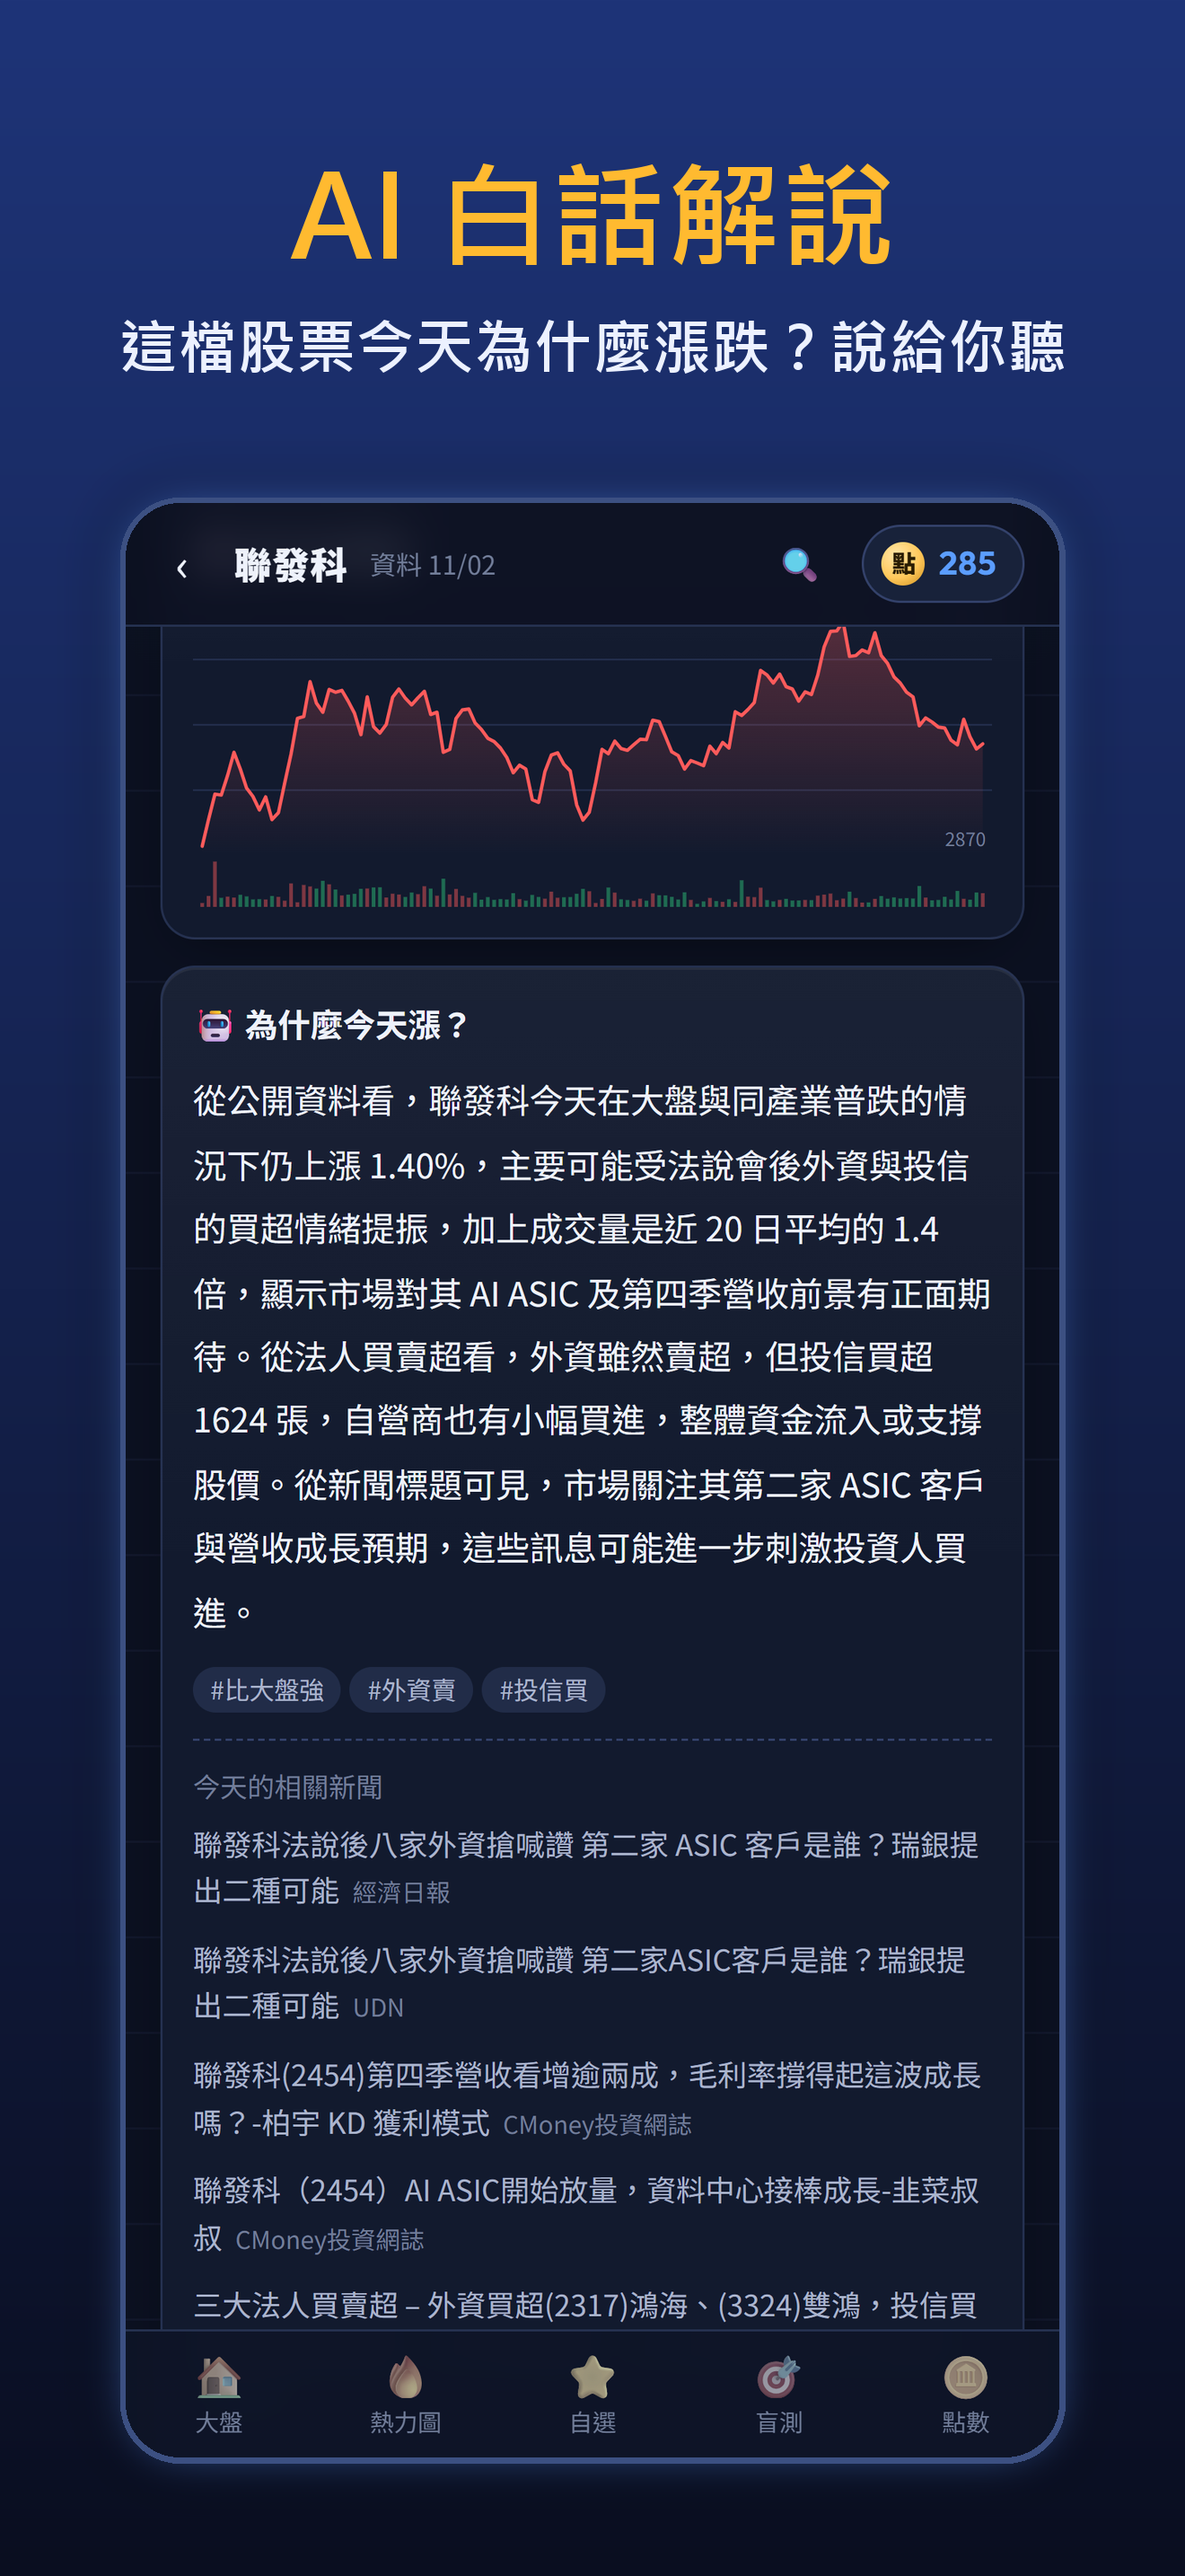
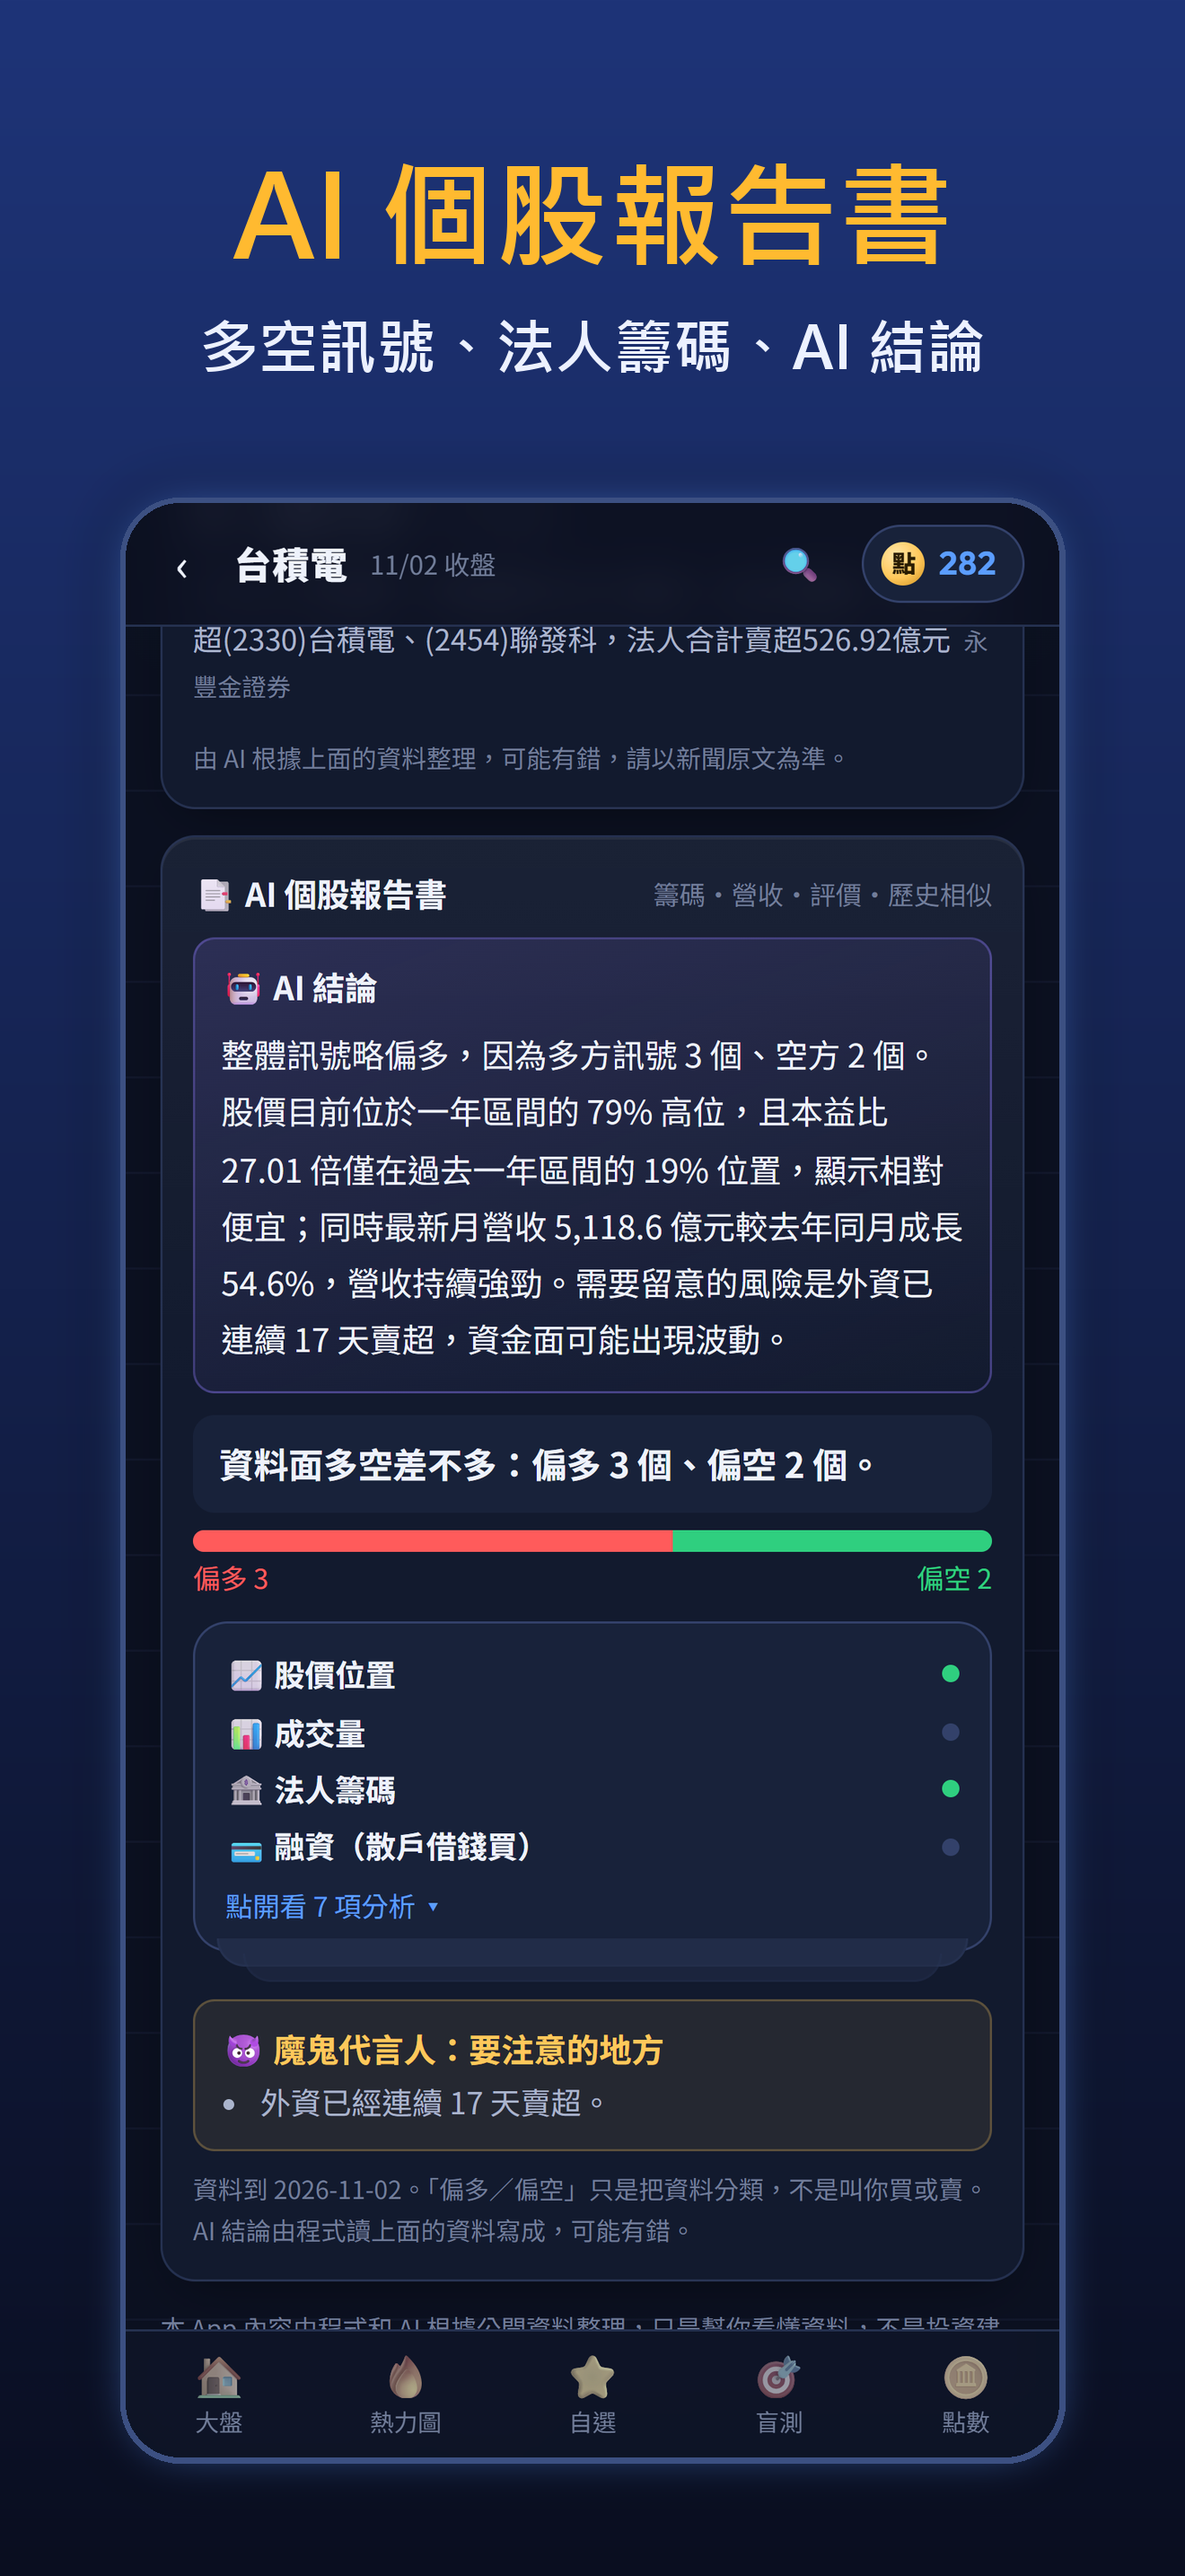
上架：撤回 1.0 改送 1.1（商店文案、截圖改主打 AI 報告）

Changed region(s): [[0.1553, 0.2172, 0.8386, 0.931], [0.0932, 0.0621, 0.9008, 0.1552], [0.4348, 0.6517, 0.497, 0.6827]]

diff --git a/上架素材/make_shots.py b/上架素材/make_shots.py
@@ -56,33 +56,36 @@ def main():
         def snap(): return p.screenshot()
 
         go('#home', 3500)
-        compose(snap(), '台股今天發生什麼事', '大盤、法人、族群強弱　一眼看懂', '01')
+        compose(snap(), 'AI 盤後日報', '每天收盤後　大盤重點一篇看懂', '01')
+
+        go('#s/2330', 4000)
+        for i in range(2):
+            p.evaluate("() => { const b = document.querySelector('[data-unlock]'); b && b.click(); }")
+            p.wait_for_timeout(6000)
+        p.evaluate("() => { const e = document.querySelector('.aic'); if (e) window.scrollTo(0, Math.max(0, e.getBoundingClientRect().top + scrollY - 200)); }")
+        p.wait_for_timeout(1500)
+        compose(snap(), 'AI 個股報告書', '多空訊號、法人籌碼、AI 結論', '02')
+
+        go('#weekly', 3000)
+        p.evaluate("() => { const b = document.querySelector('[data-unlock]'); b && b.click(); }")
+        p.wait_for_timeout(3000)
+        p.evaluate("() => document.querySelectorAll('.toast,.inter,.modal').forEach(e => e.remove())")
+        compose(snap(), '概念股 AI 週報', '每週五出刊　族群這週誰強誰弱', '03')
 
         go('#s/2454', 4000)
         p.evaluate("() => { const b = document.querySelector('[data-unlock]'); b && b.click(); }")
         p.wait_for_timeout(3500)
         p.evaluate("() => { const e = document.querySelector('.explain, [data-k=explain], .lock, .ai'); if (e) window.scrollTo(0, Math.max(0, e.getBoundingClientRect().top + scrollY - 260)); }")
         p.wait_for_timeout(800)
-        compose(snap(), 'AI 白話解說', '這檔股票今天為什麼漲跌？說給你聽', '02')
-
-        go('#s/2330', 4000)
-        for i in range(2):
-            p.evaluate("() => { const b = document.querySelector('[data-unlock]'); b && b.click(); }")
-            p.wait_for_timeout(6000)
-        p.evaluate("() => { const d = document.querySelector('.deck'); if (d) { d.querySelector('.deck-stack').click(); const h = d.parentElement; window.scrollTo(0, h.getBoundingClientRect().top + scrollY - 70); } }")
-        p.wait_for_timeout(2500)
-        compose(snap(), '深度報告', '多空訊號、法人籌碼、歷史相似情境', '03')
+        compose(snap(), 'AI 白話解說', '這檔股票今天為什麼漲跌？說給你聽', '04')
 
         go('#heat', 3500)
-        compose(snap(), '台股熱力圖', '產業、概念股強弱　一張圖看完', '04')
+        compose(snap(), '台股熱力圖', '產業、概念股強弱　一張圖看完', '05')
 
-        go('#game', 2500)
-        p.evaluate("() => document.querySelector('#go').click()")
-        p.wait_for_timeout(5000)
-        compose(snap(), '歷史盲測', '遮住股名和日期　猜猜之後漲還跌', '05')
-
-        go('#me', 2500)
-        compose(snap(), '看廣告賺點數', '免費解鎖白話解說和深度報告', '06')
+        go('#home', 3500)
+        p.evaluate("() => { const h = [...document.querySelectorAll('.card h3')].find(x => x.textContent.includes('自選股晨報')); if (h) window.scrollTo(0, h.closest('.card').getBoundingClientRect().top + scrollY - 70); }")
+        p.wait_for_timeout(1000)
+        compose(snap(), '自選股晨報', '你的股票今天怎麼了　開 App 就知道', '06')
         b.close()
 
 if __name__ == '__main__':

diff --git a/上架素材/上架文案.md b/上架素材/上架文案.md
@@ -3,7 +3,7 @@
 | 欄位 | 內容 |
 |---|---|
 | App 名稱（30 字內） | 股市白話通 |
-| 副標題（30 字內） | 台股為什麼漲跌？AI 白話解說 |
+| 副標題（30 字內） | 台股 AI 盤後日報、個股報告書 |
 | 主要類別 | 財經 |
 | 次要類別 | 教育 |
 | 套件 ID | tw.gushi.baihua |
@@ -16,21 +16,25 @@
 
 ## 關鍵字（100 字元內，逗號分隔）
 
-台股,股票,股市,漲跌,原因,白話,AI,解說,法人,外資,投信,熱力圖,大盤,加權指數,新手,理財,族群,概念股,盲測
+台股,股票,股市,AI,報告,日報,週報,盤後,漲跌,原因,白話,法人,外資,投信,熱力圖,大盤,新手,理財,概念股,自選股
 
 ## 宣傳文字（170 字內，可隨時改）
 
-看不懂股票為什麼漲跌？股市白話通每天收盤後，把行情、三大法人、成交量和新聞整理成幾句白話，新手也看得懂。還有台股熱力圖、深度報告和歷史盲測小遊戲。
+每天收盤後，AI 幫你寫好台股盤後日報：大盤、法人、強弱族群、焦點股一篇看懂。熱門股有 AI 個股報告書，每週五還有概念股 AI 週報。看不懂股票為什麼漲跌？用白話說給你聽。
 
 ## 描述
 
-股票今天為什麼漲？為什麼跌？
-股市白話通把一堆數字翻成「人話」，讓投資新手也能看懂台股。
+看不懂股票為什麼漲？為什麼跌？
+股市白話通每天收盤後，用 AI 把一堆數字整理成白話報告，投資新手也看得懂台股。
 
-【AI 白話解說】
-每天收盤後，整理熱門股的行情、三大法人買賣超、成交量、同產業表現和當天新聞，用 2～4 句話告訴你這檔股票今天發生了什麼事。
+【AI 盤後日報】免費
+每天收盤後一篇：大盤漲跌、漲跌家數、三大法人、強弱族群、焦點個股和原因，打開 App 第一眼就看到。
 
-【深度報告】
+【自選股晨報】免費
+你的自選股今天幾檔漲、幾檔跌，表現最好、最差的是誰，外資和投信有沒有在買。
+
+【AI 個股報告書】
+・AI 結論：用一段話整理這檔股票目前的狀況和要注意的風險
 ・偏多、偏空訊號各有幾個
 ・股價位置：均線、一年高低區間
 ・法人籌碼：外資、投信近 5 日和 20 日動向、連續買賣超
@@ -38,42 +42,45 @@
 ・歷史相似情境：過去三年走勢最像現在的時候，之後 10 天怎麼走
 ・魔鬼代言人：列出要注意的風險
 
-【台股熱力圖】
-全市場依產業分區，紅漲綠跌一眼看完；也能只看單一產業、自選股，或 AI 伺服器、散熱、CoWoS、矽光子、記憶體、航運、金控等概念股群組。可以切換用市值、成交值或平均大小，顏色可以看漲跌幅或外資買賣超。
+【概念股 AI 週報】
+每週五出刊。AI 伺服器、散熱、CoWoS、矽光子、記憶體、PCB、重電、航運等 12 個族群，這週誰強誰弱、為什麼，每個族群都有 AI 說明。
 
-【大盤一眼看懂】
-加權指數、櫃買指數、漲跌家數、三大法人、族群強弱、熱門／漲幅／跌幅／外資買賣超排行。
+【AI 白話解說】
+熱門股今天發生什麼事？整理行情、法人買賣超、成交量、同產業表現和當天新聞，用 2～4 句話說給你聽。
+
+【台股熱力圖】
+全市場依產業分區，紅漲綠跌一眼看完；也能只看單一產業、自選股或概念股群組。
 
 【歷史盲測】
 遮住股名和日期，看一段真實的台股走勢，猜猜之後 20 天漲還是跌，訓練自己的盤感。
 
 【點數怎麼用】
-新朋友送 10 點、每天簽到 +1、看廣告 +3。白話解說 1 點、深度報告 3 點；查股價、走勢圖、熱力圖、自選股都免費。
+新朋友送 10 點、每天簽到 +1、看廣告 +3。白話解說 1 點、週報 2 點、個股報告書 3 點；盤後日報、自選晨報、查股價、走勢圖、熱力圖都免費。
 
-資料來源：臺灣證券交易所、證券櫃檯買賣中心、FinMind 公開資料。每個交易日收盤後更新。
+資料來源：臺灣證券交易所、證券櫃檯買賣中心、FinMind 公開資料。股價為收盤後資料（非即時報價），每個交易日收盤後更新。
 
 ※ 本 App 只整理公開資料，不提供任何買賣建議或目標價，內容不構成投資建議。投資有風險，請自行判斷。
 
-## 此版本新功能（1.0）
+## 此版本新功能（1.1）
 
-第一版上架！
+第一版上架（以 1.1 版送審，1.0 沒上架就撤回改送 1.1）。第一版不能填「此版本新功能」。
 
 ## 截圖（6.9 吋，1320×2868）
 
-`上架素材\截圖\01～06.png`，用 `make_shots.py` 從真的 App 產生（本機伺服器 5189 要開著）。
+`上架素材\截圖～06.png`，用 `make_shots.py` 從真的 App 產生（本機伺服器 5189 要開著）。
 
-1. 台股今天發生什麼事｜大盤、法人、族群強弱 一眼看懂
-2. AI 白話解說｜這檔股票今天為什麼漲跌？說給你聽
-3. 深度報告｜多空訊號、法人籌碼、歷史相似情境
-4. 台股熱力圖｜產業、概念股強弱 一張圖看完
-5. 歷史盲測｜遮住股名和日期 猜猜之後漲還跌
-6. 看廣告賺點數｜免費解鎖白話解說和深度報告
+1. AI 盤後日報｜每天收盤後　大盤重點一篇看懂
+2. AI 個股報告書｜多空訊號、法人籌碼、AI 結論
+3. 概念股 AI 週報｜每週五出刊　族群這週誰強誰弱
+4. AI 白話解說｜這檔股票今天為什麼漲跌？說給你聽
+5. 台股熱力圖｜產業、概念股強弱　一張圖看完
+6. 自選股晨報｜你的股票今天怎麼了　開 App 就知道
 
 ## 審查備註（英文）
 
-This app explains daily Taiwan stock market moves in plain Chinese for beginners. No login is required.
+This app turns daily Taiwan stock market data into plain-Chinese AI reports for beginners. No login is required.
 
-- Data sources: public data from the Taiwan Stock Exchange (TWSE), Taipei Exchange (TPEx) and FinMind. A daily job compiles the data after market close and hosts it on GitHub Pages (https://weo001.github.io/gushi/data/).
-- Short explanations are written by an AI model from the provided data only. The app does NOT provide buy/sell recommendations, target prices or any trading/brokerage service. A disclaimer is shown on every stock page.
-- Monetization: Google AdMob only, no in-app purchases. Points can be earned by watching optional rewarded ads (+3 points), daily check-in (+1), and 10 free points for new users. Points unlock the "plain-language explanation" (1 point) and "in-depth report" (3 points). Interstitial ads may appear occasionally when opening a stock page (not for the first 3 opens, at least 2 minutes apart). The App Tracking Transparency prompt appears only before the first ad.
-- How to test: open any stock (e.g. search "2330"), tap "用 1 點解鎖白話解說" to unlock the explanation; open the 🪙 tab and tap "看廣告 +3 點" to watch a rewarded ad.
+- Data sources: public end-of-day data from the Taiwan Stock Exchange (TWSE), Taipei Exchange (TPEx) and FinMind. Prices are after-close data only (no real-time quotes). A daily job compiles the data and the AI reports after market close and hosts them on GitHub Pages (https://weo001.github.io/gushi/data/).
+- AI content: the daily market recap, the stock report conclusion, the weekly sector report and short stock explanations are written by an AI model from the provided data only. The app does NOT provide buy/sell recommendations, target prices or any trading/brokerage service. A disclaimer is shown on every report.
+- Monetization: Google AdMob only, no in-app purchases. Points can be earned by watching optional rewarded ads (+3 points), daily check-in (+1), and 10 free points for new users. Points unlock the stock explanation (1 point), the weekly sector report (2 points) and the stock report (3 points). The daily recap and watchlist summary are free. Interstitial ads may appear occasionally when opening a stock page (not for the first 3 opens, at least 2 minutes apart). The App Tracking Transparency prompt appears only before the first ad.
+- How to test: the AI daily recap is at the top of the home tab. Open a stock (e.g. search "2330") and tap "用 3 點解鎖個股報告書" to see the report with the AI conclusion. Tap the "概念股 AI 週報" card on the home tab for the weekly report. Open the 🪙 tab and tap "看廣告 +3 點" to watch a rewarded ad.
